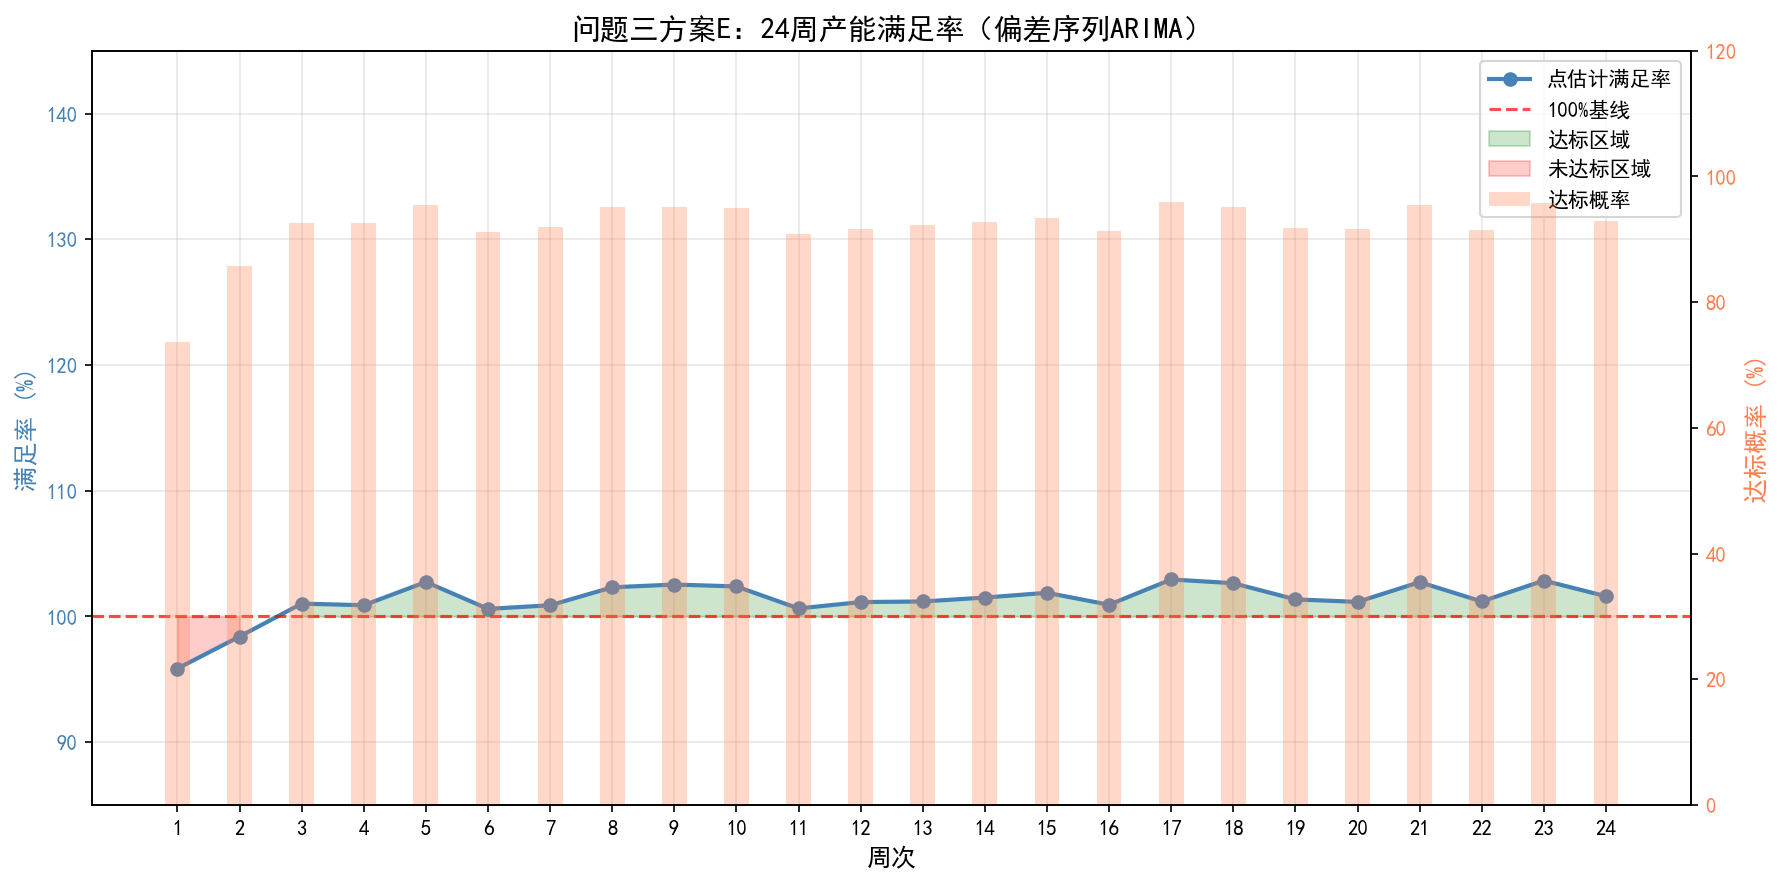
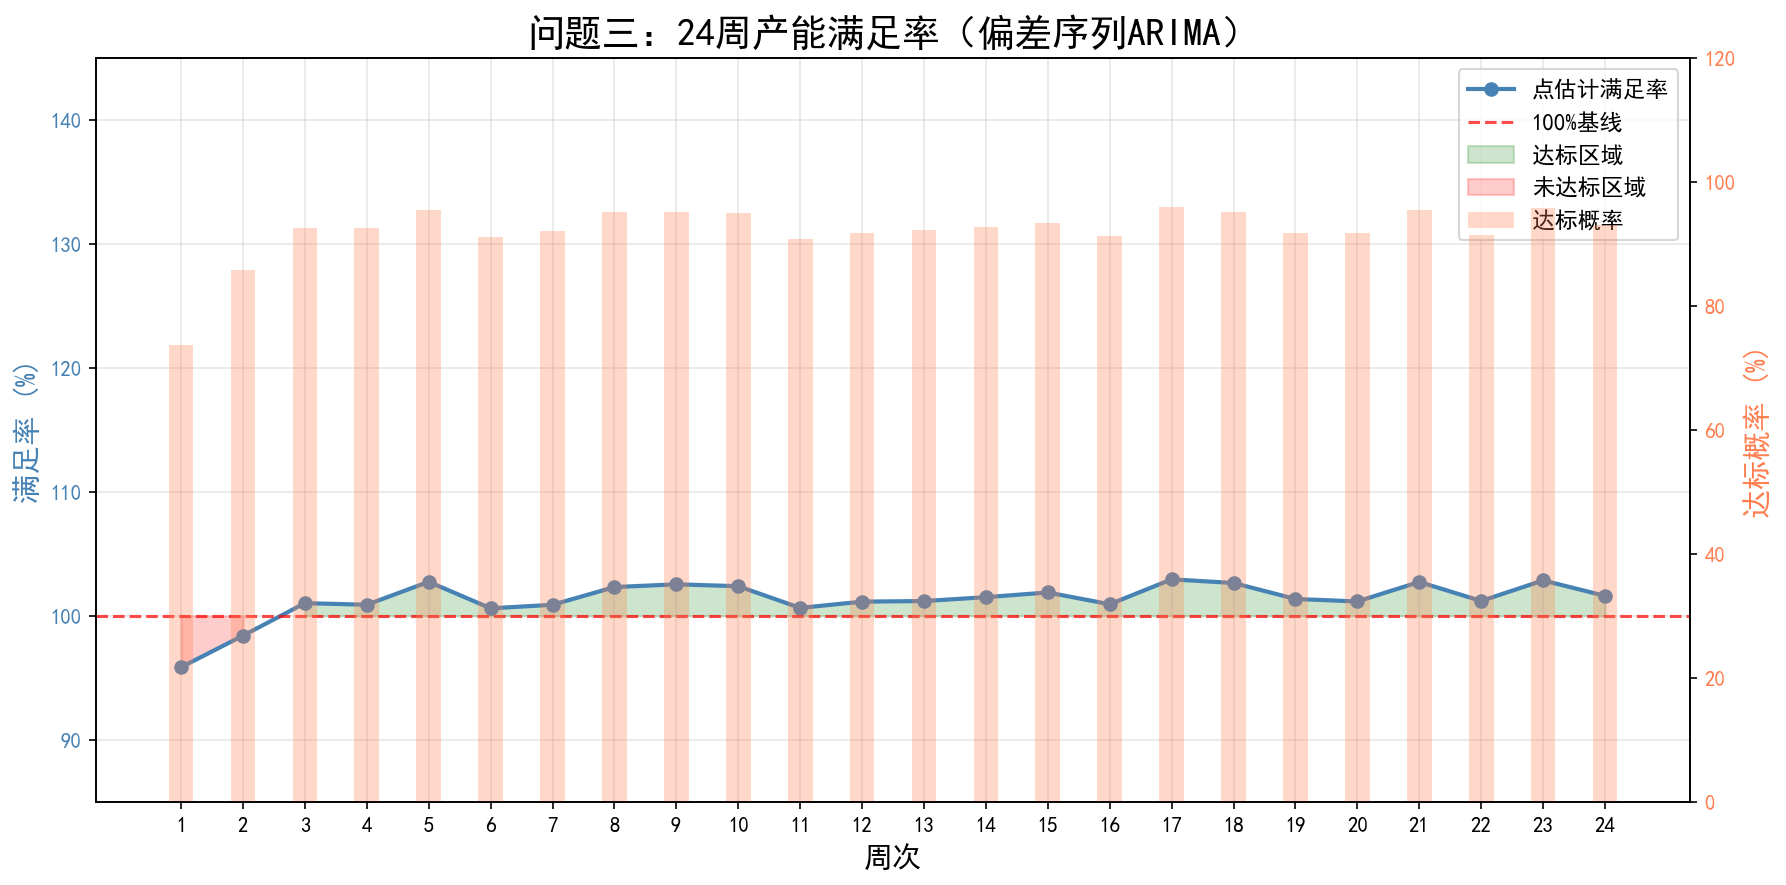
调大了图片字号，删去了问题三方案E等字样，修改了问题重述部分

diff --git a/模块四练习/code/problem3_visualization.py b/模块四练习/code/problem3_visualization.py
@@ -1,5 +1,5 @@
 """
-问题三方案E可视化模块
+问题三可视化模块
 """
 import numpy as np
 import matplotlib.pyplot as plt
@@ -25,7 +25,7 @@ def plot_model_distribution(models, save_path):
     centre_circle = plt.Circle((0, 0), 0.55, fc='white')
     ax.add_artist(centre_circle)
     
-    ax.set_title('供应商模型类型分布', fontsize=14, pad=20)
+    ax.set_title('供应商模型类型分布', fontsize=18, fontweight='bold', pad=20)
     
     plt.tight_layout()
     plt.savefig(save_path, dpi=150, bbox_inches='tight')
@@ -46,10 +46,10 @@ def plot_gap_distribution(models, save_path):
     ax.axvline(x=np.mean(means), color='orange', linestyle='-', linewidth=2, 
                label=f'均值={np.mean(means):.1f} m³')
     
-    ax.set_xlabel('偏差均值 D̄ (m³)', fontsize=12)
-    ax.set_ylabel('供应商数量', fontsize=12)
-    ax.set_title('供应商供货偏差均值分布', fontsize=14)
-    ax.legend(fontsize=11)
+    ax.set_xlabel('偏差均值 D̄ (m³)', fontsize=14)
+    ax.set_ylabel('供应商数量', fontsize=14)
+    ax.set_title('供应商供货偏差均值分布', fontsize=18, fontweight='bold')
+    ax.legend(fontsize=12)
     ax.grid(True, alpha=0.3)
     
     # 标注超额/缺货区域
@@ -78,8 +78,8 @@ def plot_fulfillment_rate(fulfillment_rate, P_j, save_path):
     ax1.fill_between(weeks, 100, fulfillment_rate * 100, 
                      where=(fulfillment_rate < 1), alpha=0.2, color='red', label='未达标区域')
     
-    ax1.set_xlabel('周次', fontsize=12)
-    ax1.set_ylabel('满足率 (%)', fontsize=12, color=color1)
+    ax1.set_xlabel('周次', fontsize=14)
+    ax1.set_ylabel('满足率 (%)', fontsize=14, color=color1)
     ax1.tick_params(axis='y', labelcolor=color1)
     ax1.set_xticks(weeks)
     ax1.set_ylim([85, 145])
@@ -87,15 +87,15 @@ def plot_fulfillment_rate(fulfillment_rate, P_j, save_path):
     ax2 = ax1.twinx()
     color2 = 'coral'
     ax2.bar(weeks, P_j * 100, alpha=0.3, color=color2, width=0.4, label='达标概率')
-    ax2.set_ylabel('达标概率 (%)', fontsize=12, color=color2)
+    ax2.set_ylabel('达标概率 (%)', fontsize=14, color=color2)
     ax2.tick_params(axis='y', labelcolor=color2)
     ax2.set_ylim([0, 120])
     
     lines1, labels1 = ax1.get_legend_handles_labels()
     lines2, labels2 = ax2.get_legend_handles_labels()
-    ax1.legend(lines1 + lines2, labels1 + labels2, loc='upper right', fontsize=10)
+    ax1.legend(lines1 + lines2, labels1 + labels2, loc='upper right', fontsize=11)
     
-    ax1.set_title('问题三方案E：24周产能满足率（偏差序列ARIMA）', fontsize=14)
+    ax1.set_title('问题三：24周产能满足率（偏差序列ARIMA）', fontsize=18, fontweight='bold')
     ax1.grid(True, alpha=0.3)
     
     plt.tight_layout()
@@ -128,11 +128,11 @@ def plot_acf_examples(deviation_series, models, plan_ids, save_path, n_examples=
         D = deviation_series[idx]
         
         plot_acf(D, lags=min(30, len(D)//2 - 1), ax=ax, alpha=0.05)
-        ax.set_title(f'供应商 {plan_ids[idx]}\n{models[idx]["model_type"]}', fontsize=11)
-        ax.set_xlabel('滞后阶数', fontsize=10)
-        ax.set_ylabel('自相关系数', fontsize=10)
+        ax.set_title(f'供应商 {plan_ids[idx]}\n{models[idx]["model_type"]}', fontsize=12)
+        ax.set_xlabel('滞后阶数', fontsize=11)
+        ax.set_ylabel('自相关系数', fontsize=11)
     
-    plt.suptitle('典型供应商偏差序列ACF图', fontsize=14, y=1.02)
+    plt.suptitle('典型供应商偏差序列ACF图', fontsize=18, fontweight='bold', y=1.02)
     plt.tight_layout()
     plt.savefig(save_path, dpi=150, bbox_inches='tight')
     plt.close()
@@ -151,11 +151,11 @@ def plot_weekly_supply_comparison(weekly_total, save_path, capacity=28200):
     ax.bar(weeks, weekly_total, color=colors, alpha=0.7, edgecolor='black', linewidth=0.5)
     ax.axhline(y=capacity, color='red', linestyle='--', linewidth=2, label=f'产能要求 ({capacity:,} m³)')
     
-    ax.set_xlabel('周次', fontsize=12)
-    ax.set_ylabel('总供货量 (产品体积 m³)', fontsize=12)
-    ax.set_title('问题三方案E：每周供货总量', fontsize=14)
+    ax.set_xlabel('周次', fontsize=14)
+    ax.set_ylabel('总供货量 (产品体积 m³)', fontsize=14)
+    ax.set_title('问题三：每周供货总量', fontsize=18, fontweight='bold')
     ax.set_xticks(weeks)
-    ax.legend(fontsize=11)
+    ax.legend(fontsize=12)
     ax.grid(True, alpha=0.3, axis='y')
     
     for i, (w, t) in enumerate(zip(weeks, weekly_total)):

diff --git a/模块四练习/论文.tex b/模块四练习/论文.tex
@@ -143,18 +143,19 @@
 
 \subsection{问题背景}
 
-建筑和装饰板材生产企业的供应链管理面临原材料采购与供应的双重不确定性。企业按每半年一个周期安排生产，需提前制定下一周期的原材料订购与转运计划。企业的周产能固定，三类原材料的消耗率和采购单价各异，使得不同材料类型的供应商存在成本差异。由于供应商的实际供货量无法保证与订货量完全一致，企业须全额收购实际交付的原材料，这意味着供货偏差成为必须面对的核心风险。附件提供了近5年402家供应商的订货量与供货量时序数据，为从历史数据中挖掘供应商行为规律、建立评价与决策模型提供了重要基础。
+某建筑和装饰板材生产企业的主要原材料为木质纤维及其他植物素纤维材料，总体分为A、B、C三种类型。该企业每年按两个周期（共计48周）安排生产，需要提前制定一个周期（24周）的原材料订购与转运计划，即根据产能要求确定需要订购的原材料供应商以及相应的每周原材料订购数量。
+
+该企业每周产能为2.82万立方米，每生产一立方米产品需消耗A类原材料0.6立方米，或B类原材料0.66立方米，或C类原材料0.72立方米。由于原材料自身的特殊性，供应商无法保证严格按订货量供货，实际供货量可能多于或少于订货量，因此该企业对供应商实际提供的原材料总是全部收购。实际中，A类和B类原材料的采购单价分别比C类原材料高20%和10%。
 
 \subsection{问题提出}
 
-在供应商供货行为难以完全预期的现实约束下，企业需要完成评价筛选、订购决策与供应预测三项递进任务。
+附件1提供了该企业近5年402家原材料供应商的订货量和供货量数据。我们应结合实际情况，对相关数据进行深入分析，研究下列问题：
 
-第一，如何在402家供应商中精准筛选出对保障生产不可或缺的55家核心供应商。这要求建立科学的多维评价体系，从供货能力、履约可靠性等角度量化每家供应商的战略价值，形成可排序的综合指标。
+问题一：根据附件1，对402家供应商的订货和供货特征进行量化分析，建立能够反映保障企业生产重要性的数学模型，并在此基础上确定55家最重要的供应商。
 
-第二，针对筛选出的核心供应商，在满足周产能底线和最低供销关系维持的前提下，制定订购方案以最小化采购总成本。企业要求以各供应商过去有效订货周的历史均订货量取整后作为每次订购的固定批量，在此前提下需要确定每周向哪些供应商发出订单。
+问题二：针对问题1选出的55家供应商，经企业与供应商协商后，企业以每个供应商过去的每周平均订货量作为订货量，且订货次数必须大于或等于该供应商的平均周期订货次数，同时要求每周的总订购量至少达到产能的90%以上。为该企业制定这些供应商未来24周每周最优的原材料订购方案，该方案需明确每一周向哪些供应商进行订购。
 
-第三，在订购方案的基础上，面对供应商供货行为的不确定性，需要利用历史偏差数据预测未来24周的实际供货量并评估周产能满足情况。
-
+问题三：在问题2结果的基础上，根据供应商的供货特征，为这些供应商制定未来24周每周的原材料供应方案，并统计达到周产能需求的比例。
 
 \section{问题分析}
 

diff --git a/模块四练习/code/problem2_visualization.py b/模块四练习/code/problem2_visualization.py
@@ -21,11 +21,11 @@ def plot_weekly_volume(weekly_volume, save_path):
     
     ax.axhline(y=25380, color='red', linestyle='--', linewidth=2, label='产能底线 (25380 m³)')
     
-    ax.set_xlabel('周次', fontsize=12)
-    ax.set_ylabel('订购量（产品体积 m³）', fontsize=12)
-    ax.set_title('24周每周订购量', fontsize=14)
+    ax.set_xlabel('周次', fontsize=14)
+    ax.set_ylabel('订购量（产品体积 m³）', fontsize=14)
+    ax.set_title('24周每周订购量', fontsize=18, fontweight='bold')
     ax.set_xticks(weeks)
-    ax.legend(fontsize=11)
+    ax.legend(fontsize=12)
     ax.grid(axis='y', alpha=0.3)
     
     plt.tight_layout()
@@ -45,11 +45,11 @@ def plot_weekly_suppliers(weekly_count, weekly_A, weekly_B, weekly_C, save_path)
     ax.bar(weeks, weekly_B, bottom=weekly_A, color='#FF9800', label='B类', edgecolor='black', linewidth=0.3)
     ax.bar(weeks, weekly_C, bottom=weekly_A + weekly_B, color='#4CAF50', label='C类', edgecolor='black', linewidth=0.3)
     
-    ax.set_xlabel('周次', fontsize=12)
-    ax.set_ylabel('供应商数量', fontsize=12)
-    ax.set_title('每周选中供应商数量（按材料类型）', fontsize=14)
+    ax.set_xlabel('周次', fontsize=14)
+    ax.set_ylabel('供应商数量', fontsize=14)
+    ax.set_title('每周选中供应商数量（按材料类型）', fontsize=18, fontweight='bold')
     ax.set_xticks(weeks)
-    ax.legend(fontsize=11)
+    ax.legend(fontsize=12)
     ax.grid(axis='y', alpha=0.3)
     
     plt.tight_layout()
@@ -71,17 +71,20 @@ def plot_supplier_heatmap(x, ids, types, save_path):
     ids_sorted = [ids[i] for i in sorted_idx]
     types_sorted = [types[i] for i in sorted_idx]
     
-    im = ax.imshow(x_sorted, cmap='YlGn', aspect='auto', interpolation='nearest')
+    im = ax.imshow(x_sorted, cmap='Reds', aspect='auto', interpolation='nearest')
     
-    ax.set_xlabel('周次', fontsize=12)
-    ax.set_ylabel('供应商', fontsize=12)
-    ax.set_title('供应商订购计划热力图', fontsize=14)
+    ax.set_xlabel('周次', fontsize=14)
+    ax.set_ylabel('供应商', fontsize=14)
+    ax.set_title('供应商订购计划热力图', fontsize=18, fontweight='bold')
     ax.set_xticks(np.arange(24))
-    ax.set_xticklabels(np.arange(1, 25))
+    ax.set_xticklabels(np.arange(1, 25), fontsize=11)
     ax.set_yticks(np.arange(len(ids)))
     ax.set_yticklabels([f"{ids_sorted[i]}({types_sorted[i]})" for i in range(len(ids))], fontsize=7)
     
-    plt.colorbar(im, ax=ax, label='是否订购 (0/1)')
+    cbar = plt.colorbar(im, ax=ax, label='是否订购 (0/1)')
+    cbar.ax.tick_params(labelsize=11)
+    cbar.set_label('是否订购 (0/1)', fontsize=13)
+    
     plt.tight_layout()
     plt.savefig(save_path, dpi=150)
     plt.close()

diff --git a/模块四练习/code/problem1_visualization.py b/模块四练习/code/problem1_visualization.py
@@ -27,8 +27,8 @@ def plot_weight_bar_critic(weights, save_path):
         ax.text(bar.get_x() + bar.get_width() / 2, bar.get_height() + 0.005,
                 f'{w:.4f}', ha='center', va='bottom', fontsize=11, fontweight='bold')
 
-    ax.set_ylabel('权重', fontsize=12)
-    ax.set_title('CRITIC法指标权重分布（主模型）', fontsize=14)
+    ax.set_ylabel('权重', fontsize=14)
+    ax.set_title('CRITIC法指标权重分布（主模型）', fontsize=18, fontweight='bold')
     ax.set_ylim(0, max(weights) * 1.2)
     ax.grid(axis='y', alpha=0.3)
     plt.tight_layout()
@@ -54,9 +54,9 @@ def plot_score_distribution(C, threshold, save_path):
             f'Top55分界线\nC={threshold:.4f}',
             color='red', fontsize=10, fontweight='bold')
 
-    ax.set_xlabel('贴近度 C', fontsize=12)
-    ax.set_ylabel('供应商数量', fontsize=12)
-    ax.set_title('供应商贴近度分布（CRITIC-TOPSIS）', fontsize=14)
+    ax.set_xlabel('贴近度 C', fontsize=14)
+    ax.set_ylabel('供应商数量', fontsize=14)
+    ax.set_title('供应商贴近度分布（CRITIC-TOPSIS）', fontsize=18, fontweight='bold')
     ax.grid(axis='y', alpha=0.3)
     plt.tight_layout()
     plt.savefig(save_path, dpi=150)
@@ -83,8 +83,8 @@ def plot_weight_comparison(w_critic, w_entropy, save_path):
 
     ax.set_xticks(x)
     ax.set_xticklabels(indicators)
-    ax.set_ylabel('权重', fontsize=12)
-    ax.set_title('CRITIC vs 熵权法 权重对比', fontsize=14)
+    ax.set_ylabel('权重', fontsize=14)
+    ax.set_title('CRITIC vs 熵权法 权重对比', fontsize=18, fontweight='bold')
     ax.legend()
     ax.grid(axis='y', alpha=0.3)
     plt.tight_layout()
@@ -120,9 +120,9 @@ def plot_rank_scatter(rank_critic, rank_entropy, spearman_rho, save_path):
     ax.axhline(y=55.5, color='blue', linestyle='--', alpha=0.5)
     ax.plot([0, 420], [0, 420], 'k-', alpha=0.1)
 
-    ax.set_xlabel('CRITIC-TOPSIS排名（主模型）', fontsize=12)
-    ax.set_ylabel('熵权-TOPSIS排名（验证）', fontsize=12)
-    ax.set_title(f'两种方法排名对比 (Spearman ρ={spearman_rho:.4f})', fontsize=14)
+    ax.set_xlabel('CRITIC-TOPSIS排名（主模型）', fontsize=14)
+    ax.set_ylabel('熵权-TOPSIS排名（验证）', fontsize=14)
+    ax.set_title(f'两种方法排名对比 (Spearman ρ={spearman_rho:.4f})', fontsize=18, fontweight='bold')
     ax.legend(loc='lower right', fontsize=10)
     ax.set_xlim(0, 420)
     ax.set_ylim(0, 420)

diff --git a/模块四练习/code/problem3_main.py b/模块四练习/code/problem3_main.py
@@ -1,5 +1,5 @@
 """
-问题三方案E主程序：基于偏差序列ARIMA的供应方案预测
+问题三主程序：基于偏差序列ARIMA的供应方案预测
 """
 import os
 import numpy as np
@@ -118,7 +118,7 @@ def save_capacity_stats(weekly_total, fulfillment_rate, weeks_meet, avg_P, P_all
 
 def main():
     print("=" * 50)
-    print("问题三方案E：基于偏差序列ARIMA的供应方案")
+    print("问题三：基于偏差序列ARIMA的供应方案")
     print("=" * 50)
 
     # 1. 数据读取
@@ -216,7 +216,7 @@ def main():
         print(f"{plan_ids[i]:<12} {plan_types[i]:<6} {m['model_type']:<20} {m['params']['mean_D']:<10.2f} {m['params']['N']:<8}")
 
     print("\n" + "=" * 50)
-    print("问题三方案E求解完成！")
+    print("问题三求解完成！")
     print("=" * 50)
 
 
